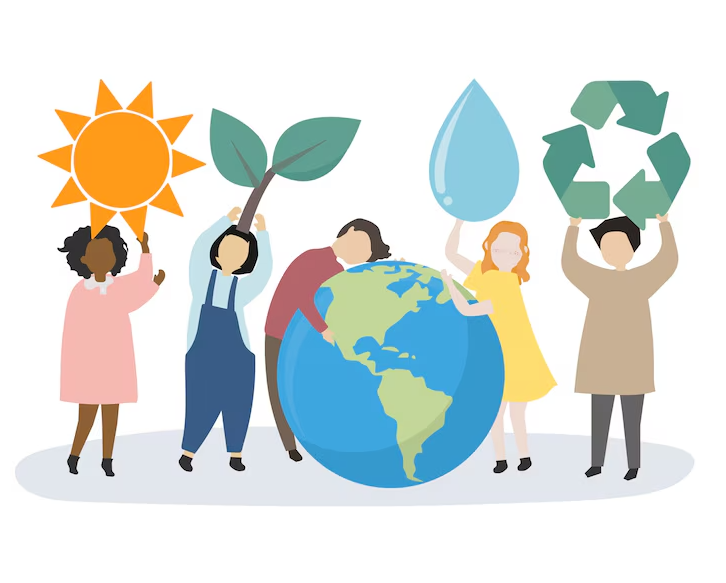
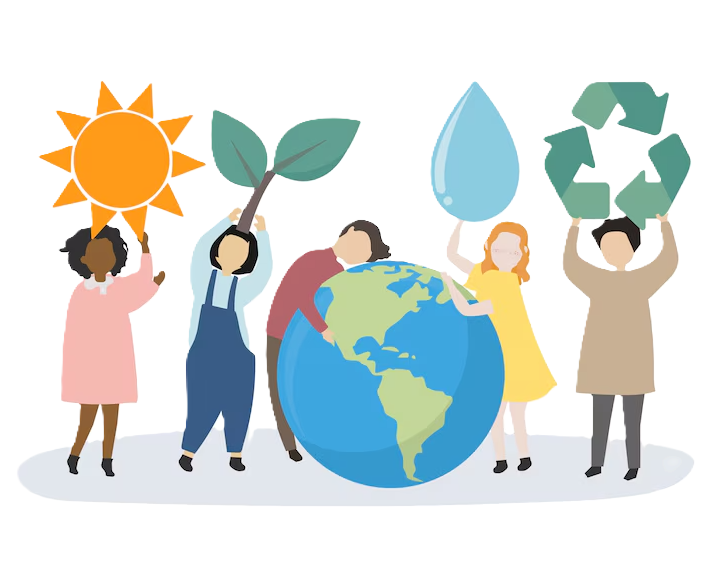
Removed white background from home graphic for dark mode

diff --git a/client/shell-app/src/App.jsx b/client/shell-app/src/App.jsx
@@ -39,20 +39,11 @@ function App() {
     <div className="container mt-3">
       <Header />
       <h1 className="text-center">🏡 Community Engagement Platform</h1>
-      {/* Add an image below the title */}
-    <div className="text-center">
-      <img
-        src="/src/assets/Community-Hub.png" // Replace with the actual image path
-        alt="Community Engagement Hub"
-        className="img-fluid my-3"
-        style={{ objectFit: "cover" }}
-      />
-    </div>
       <Suspense fallback={<div>Loading...</div>}>
         <Routes>
           <Route path="/auth/*" element={<AuthApp />} />
           <Route path="/community/*" element={<CommunityApp />} />
-          <Route path="*" element={<h3 className="text-center">Welcome! Please explore our Community Services.</h3>} />
+          <Route path="*" element={<><h3 className="text-center">Welcome! Please explore our Community Services.</h3><img src="/src/assets/Community-Hub.png" width="100%" alt="Community Engagement Hub" /></>} />
         </Routes>
       </Suspense>
       <Footer />
